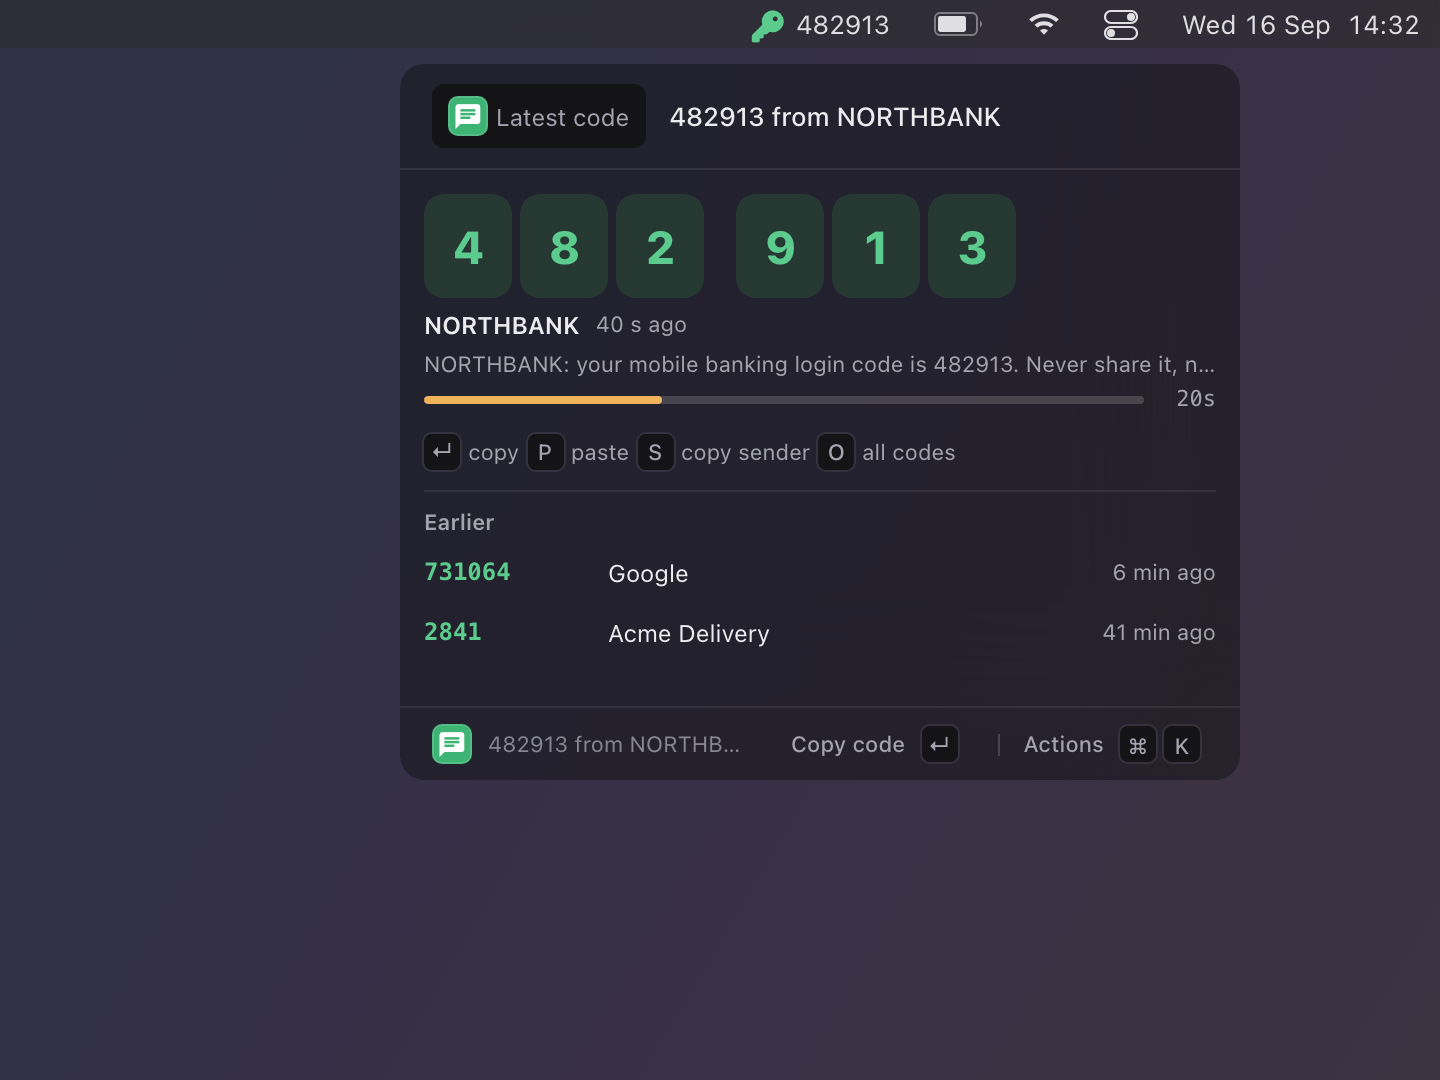
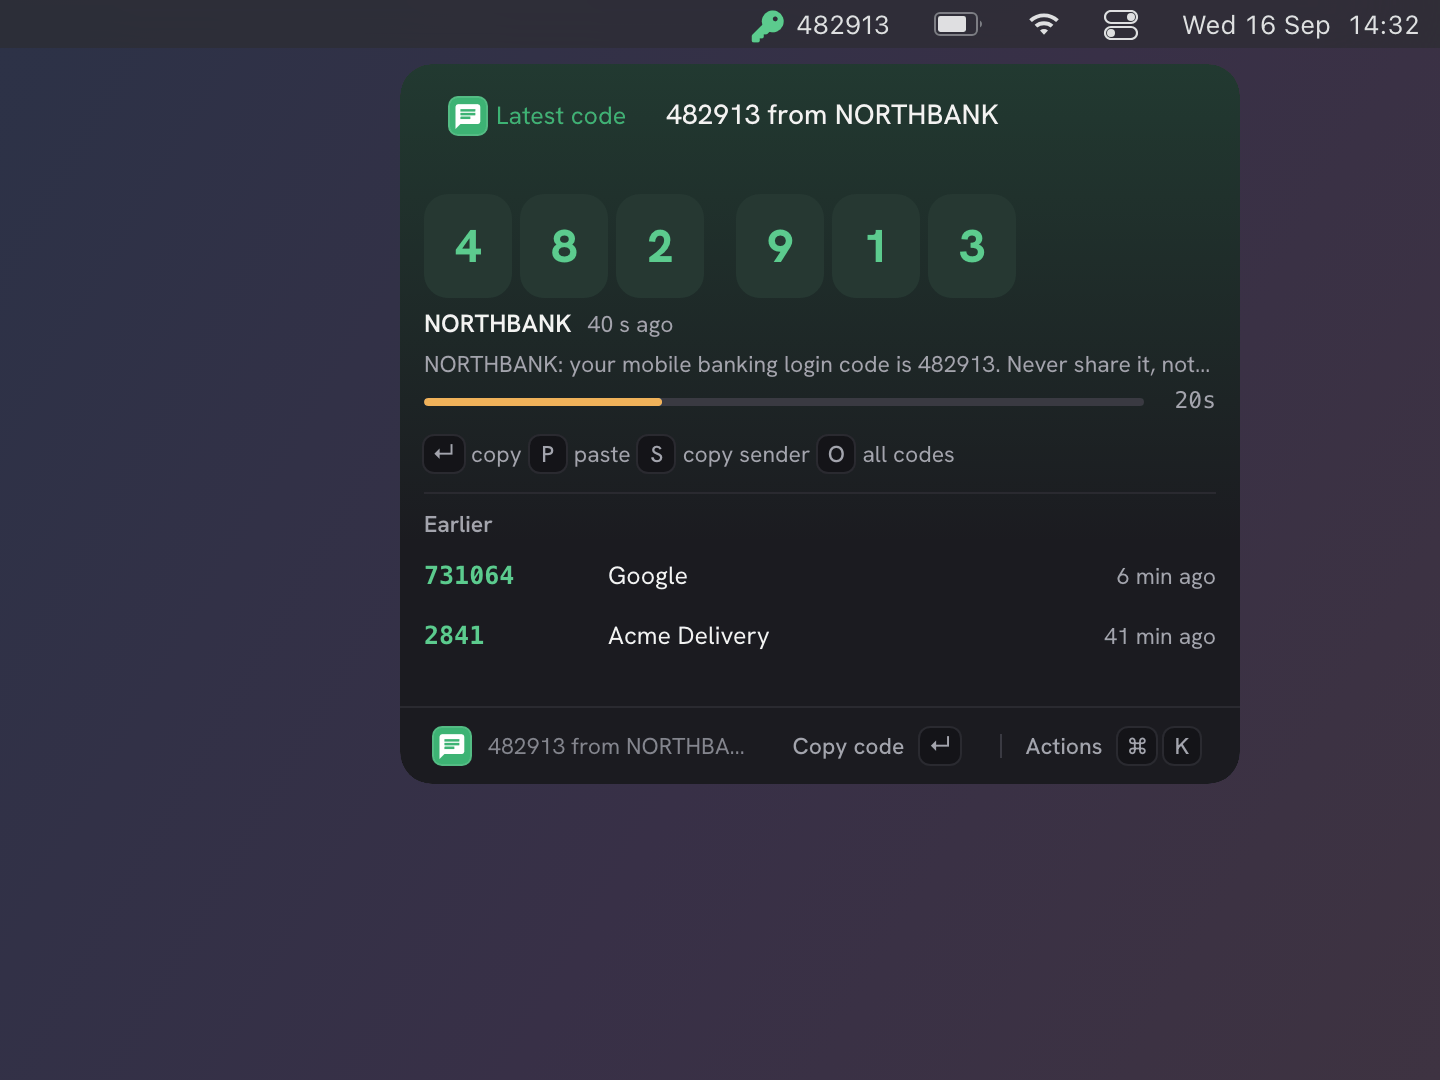
otp: a code's detail leads with the code as its title, who sent it and when as the caption, the message under it; no metadata table

diff --git a/extensions/otp/fixture.ts b/extensions/otp/fixture.ts
@@ -31,7 +31,7 @@ writeFixture("otp", {
   palettes: { otp: { title: "Verification Codes", icon: { tile: { glyph: "\u{f0369}", bg: "green" } }, live: true, placeholder: "Search codes and senders", items: codes.map((c) => item(c, today)) } },
   shots: {
     "1-codes": { palette: "otp", keys: [], caption: "Today's codes and yesterday's: the sender, the message, the code as a green tag, how long ago it came" },
-    "2-detail": { palette: "otp", keys: ["down", "cmd+i"], caption: "The detail pane: the whole message, the code, the sender with its number, when it was received" },
+    "2-detail": { palette: "otp", keys: ["down", "cmd+i"], caption: "The detail pane: the code large, who sent it with the number and when, the whole message" },
     "3-actions": { palette: "otp", keys: ["cmd+k"], caption: "Paste the code into the app in front, copy it (concealed, gone in 30 s), or copy the sender" },
   },
 });

diff --git a/host/test/extensions/otp.test.ts b/host/test/extensions/otp.test.ts
@@ -113,7 +113,7 @@ describe.skipIf(!MAC)("otp", () => {
     expect(by["1"]).toMatchObject({ name: "AKBANK", subtitle: "Akbank Internet Sifreniz: 483920. Kimseyle paylasmayin. Bakiye 1.250,00 TL, 16.09.2026 19:13", keywords: ["483920", "AKBANK"] });
     expect(by["2"]).toMatchObject({ name: "22000", subtitle: "G-712345 is your Google verification code." });
     expect(by["4"]).toMatchObject({ name: "Ayşe Yılmaz", keywords: ["1234", "+905551112233", "Ayşe Yılmaz"] });
-    expect(by["4"].detail).toMatchObject({ metadata: expect.arrayContaining([{ label: "From", value: "Ayşe Yılmaz (+905551112233)" }]) });
+    expect(by["4"].detail).toMatchObject({ caption: expect.stringMatching(/^Ayşe Yılmaz \(\+905551112233\) · /), title: (by["4"].accessories![0] as { tag: string }).tag });
     expect(by["8"].name).toBe("Shop");
     expect(by["7"].name).toBe("*Enpara");
   });

diff --git a/extensions/otp/index.ts b/extensions/otp/index.ts
@@ -216,13 +216,11 @@ export function item(c: Code, today: Date): Item {
     keywords: [c.code, c.sender, c.name].filter((k, i, a) => a.indexOf(k) === i),
     accessories: [{ tag: c.code, color: "green" }, { date: c.at }],
     section: sameDay(when, today) ? "Today" : "Earlier",
+    // The code is the answer: the header's title, under who sent it and when; the message under that.
     detail: {
+      caption: [c.name === c.sender ? c.sender : `${c.name} (${c.sender})`, whenAt(when)].join(" · "),
+      title: c.code,
       markdown: c.text,
-      metadata: [
-        { label: "Code", tags: [{ text: c.code, color: "green" }] },
-        { label: "From", value: c.name === c.sender ? c.sender : `${c.name} (${c.sender})` },
-        { label: "Received", value: whenAt(when) },
-      ],
     },
     actions: ACTIONS,
   };
